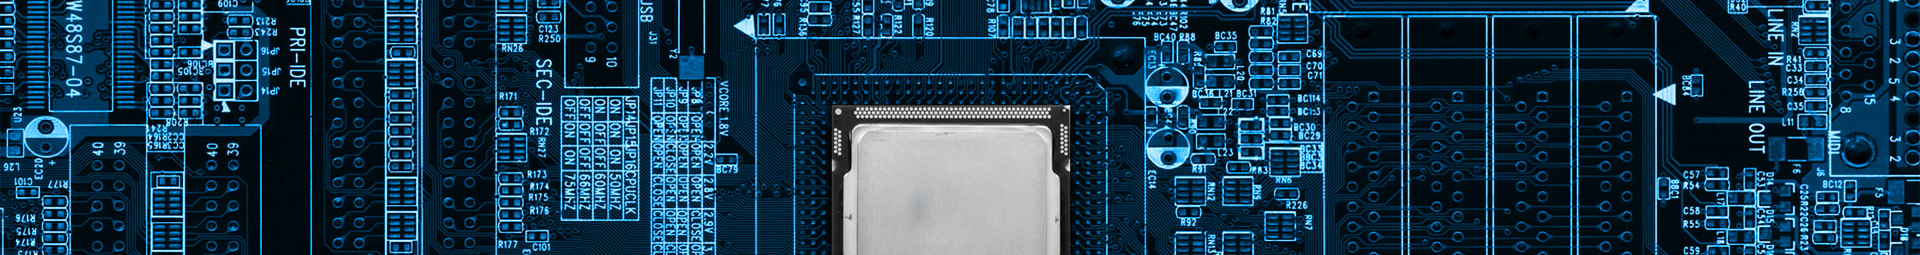
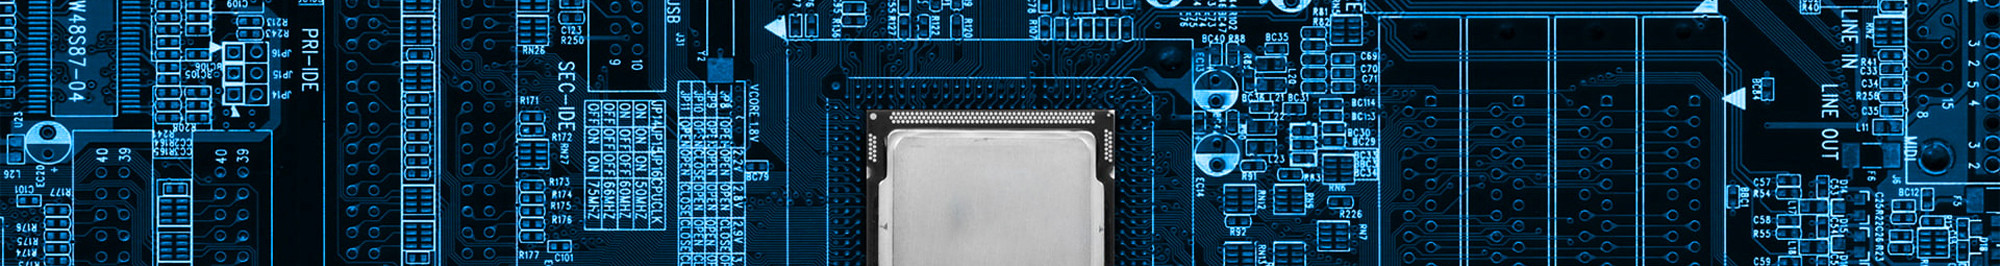
Add files via upload

diff --git a/services.html b/services.html
@@ -95,9 +95,33 @@
         </div>
         <!--two-->
         <div class="panel panel-default">
+          <div class="panel-heading" role="tab" id="headingTwo">
+            <h4 class="panel-title"><a class="collapsed" data-toggle="collapse" data-parent="#accordion" href="#collapseTwo" aria-expanded="false" aria-controls="collapseTwo">
+                
+                In Home Services <i class="accordion_icon fa fa-plus"></i></a>
+            </h4>
+          </div>
+          <div id="collapseTwo" class="panel-collapse collapse" role="tabpanel" aria-labelledby="headingTwo">
+            <div class="panel-body">
+              <hr style="border:1px solid #a80000; width:90%;">
+              <h3>IN HOME SERVICES</h3>
+              <hr style="border:1px solid #a80000; width:90%;">
+              <p>The Computer Cafe offers a wide variety of services to help all levels of computer users. On-site service is one of them. Different than in-shop repair, the on-site technician can help install your wireless networks, share printers, scanners & files, hardware installatons, troublshoot problems with your network and so much more.</p>
+
+              <p>There is no travel charge for in-home visits 15 miles or less from Wexford. The travel charge for visits more than 15 miles from Wexford depends on the distance. Call the shop for an estimate.</p>
+
+              <p>In some cases, upon assessing the situation at your home the technician will advise that the computer be brought into the shop. This recommendation is generally based on the efficiency and cost of repairing the computer on-site, the availability of parts, or the need for special equipment located at the shop. As a general rule, we recommend that virus removal be performed at the shop.</p>
+
+              <h4>SERVICE AREA:</h4>
+              <p>The Computer Cafe services charges no travel fee for services calls within 15 miles of Pittsburgh.</p>
+            </div>
+          </div>
+        </div>
+        <!--three-->
+        <div class="panel panel-default">
           <div class="panel-heading" role="tab" id="headingThree">
             <h4 class="panel-title"><a class="collapsed" data-toggle="collapse" data-parent="#accordion" href="#collapseThree" aria-expanded="false" aria-controls="collapseThree">
-                On Site Buisness Services <i class="accordion_icon fa fa-plus"></i>
+                On Site Business Services <i class="accordion_icon fa fa-plus"></i>
                 </a></h4>
           </div>
           <div id="collapseThree" class="panel-collapse collapse" role="tabpanel" aria-labelledby="headingThree">
@@ -113,7 +137,7 @@
             </div>
           </div>
         </div>
-        <!--three-->
+        <!--four-->
         <div class="panel panel-default">
           <div class="panel-heading" role="tab" id="headingFour">
             <h4 class="panel-title"><a class="collapsed" data-toggle="collapse" data-parent="#accordion" href="#collapseFour" aria-expanded="false" aria-controls="collapseFour">
@@ -145,7 +169,7 @@
             </div>
           </div>
         </div>
-        <!--four-->
+        <!--five-->
         <div class="panel panel-default">
           <div class="panel-heading" role="tab" id="headingFive">
             <h4 class="panel-title"><a class="collapsed" data-toggle="collapse" data-parent="#accordion" href="#collapseFive" aria-expanded="false" aria-controls="collapseFive">
@@ -181,7 +205,7 @@
             </div>
           </div>
         </div>
-        <!--five-->
+        <!--six-->
         <div class="panel panel-default">
           <div class="panel-heading" role="tab" id="headingSix">
             <h4 class="panel-title"><a class="collapsed" data-toggle="collapse" data-parent="#accordion" href="#collapseSix" aria-expanded="false" aria-controls="collapseSix">
@@ -252,7 +276,7 @@
             <p><i class="fa fa-envelope fa-lg" aria-hidden="true"></i><a href="#" style="color:whitesmoke;">email@.com</a></p>
           </div>
         </div>
-        <div class="col-sm-4">
+        <div class="col-sm-4 border">
           <h4>HOURS OF OPERATION</h4>
           <p>Mon - Wed | Fri: 8:00am - 5:00pm</p>
           <p>Thu: 8:00am - 6:00pm</p>
@@ -261,14 +285,13 @@
         <div class="col-sm-4">
           <h4>SOCIAL MEDIA</h4>
           <div class="social">
-            <i class="fa fa-facebook-square fa-2x" aria-hidden="true"></i>
-            <i class="fa fa-twitter-square fa-2x" aria-hidden="true"></i>
-            <i class="fa fa-google-plus-square fa-2x" aria-hidden="true"></i>
-            <i class="fa fa-linkedin-square fa-2x" aria-hidden="true"></i>
+            <a href="https://www.facebook.com/CMIT-Solutions-Of-Wexford-104547994376139/" class="fa fa-facebook"></a>
+            <a href="https://www.linkedin.com/company/cmit-solutions-of-wexford/" class="fa fa-linkedin"></a>
+            <a href="#" class="fa fa-twitter"></a>
           </div>
         </div>
       </div>
-      <div class="row">
+      <div class="row" style="padding-top:5px;">
         <h5 class="text-center">Copyright&copy;2019 The Computer Cafe | All Rights Reserved</h5>
       </div>
     </div>

diff --git a/index.html b/index.html
@@ -49,7 +49,7 @@
         <h2>700 River Ave. suite: 218</h2>
         <h2> Pittsburgh, PA 15212</h2>
         <h3> (724) 776-5860</h3>
-        <a href="services.html" class="btn btn-primary btn-lg">SERVICES</a>
+        <a href="services.html" class="btn btn-primary btn-lg">SERVICES<span class="glyphicon glyphicon-chevron-right"></span></a>
       </div>
     </div>
     <div class="container-fluid">
@@ -58,7 +58,7 @@
     </div>
     <div class="container">
       <div class="row">
-        <div class="col-md-4"><img src="images/fixed_computer.png" title="compter repair" alt="computer repair icon" class="img-responsive center-block" style=" max-width:100%; height:auto; padding-bottom:20px;"></div>
+        <div class="col-md-4"><img src="images/fixed_computer.png" title="compter repair" alt="computer repair icon" class="img-responsive center-block" style="max-width:100%; height:auto; padding-bottom:20px;"></div>
         <div class="col-md-8">
           <p>Since 1992, The Computer Caf&eacute; has offered quality residential computer sevices for residents in Pittsburgh's North Hills community. We are a locally owned buisness that offers an exceptional 2-4 buisness day turn around time for most repairs and reasonable prices compaired to other computer repair shops.</p>
           <p>Our experienced and knowledgeable staff offers you personalized and thorough service that you won't find elsewhere. We offer carry-in service at our shop in Pittsburgh, PA. We also offer complete on-site residential and buisness IT services.</p>
@@ -79,7 +79,8 @@
             <li>Operating System Reinstall</li>
             <li>Hard Drive Replacement</li>
             <li>Home Net Work Set-Up</li>
-            <li>In Shop or In Buisness Service</li>
+            <li>In Shop or In home Services</li>
+            <li>Business Services</li>
             <li>and much more...</li>
           </ul>
         </div>
@@ -90,15 +91,23 @@
       <hr style="border: 5px double #a80000; width:75%;">
     </div>
     <div>
-      <img src="images/homestrip01.jpg" class="img-responsive center-block" style="width:100%">
-    </div>
-    <div class="container-fluid">
-      <hr style="border: 5px double #a80000; width:75%;">
-      <h2>~insert content here~</h2>
-      <hr style="border: 5px double #a80000; width:75%;">
-    </div>
-    <div>
-      <img src="images/strip.jpg" class="img-responsive center-block" style="width:100%">
+        <div id="myCarousel" class="carousel fade" data-ride="carousel">
+            <!-- Indicators -->
+
+
+            <!-- Wrapper for slides -->
+            <div class="carousel-inner">
+                <div class="item active">
+                    <img src="images/stripslide01.jpg" class="center-block img-responsive" alt="eyething" style="width:100%;">
+                </div>
+
+                <div class="item">
+                    <img src="images/stripslide02.jpg" class="center-block img-responsive" alt="sonosite" style="width:100%;">
+                </div>
+                
+
+            </div>
+        </div>
     </div>
   </main>
   <footer class="container-fluid">
@@ -111,7 +120,7 @@
             <p><i class="fa fa-envelope fa-lg" aria-hidden="true"></i><a href="#" style="color:whitesmoke;">email@.com</a></p>
           </div>
         </div>
-        <div class="col-sm-4">
+        <div class="col-sm-4 border">
           <h4>HOURS OF OPERATION:</h4>
           <p>Mon - Wed | Fri: 8:00am - 5:00pm</p>
           <p>Thu: 8:00am - 6:00pm</p>
@@ -126,7 +135,7 @@
           </div>
         </div>
       </div>
-      <div class="row">
+      <div class="row" style="padding-top:5px;">
         <h5 class="text-center">Copyright&copy;2019 The Computer Cafe | All Rights Reserved</h5>
       </div>
     </div>

diff --git a/custom.css b/custom.css
@@ -77,8 +77,8 @@ main p {
 .navbar .navbar-nav > .open > a,
 .navbar .navbar-nav > .open > a:hover,
 .navbar .navbar-nav > .open > a:focus {
-  color: cadetblue;
-  background-color: #D5D5D5;
+  color:black;
+  background-color:black;
 }
 
 /*****home pg*****/
@@ -86,13 +86,14 @@ main p {
 .jumbotron {
   padding: 50px;
   color: white;
-  background-image: url("images/keyboard.jpg");
+  background-image: url("images/keyboard02.jpg");
   background-position: center;
   background-size: cover;
   background-repeat: no-repeat;
   font-family: 'Poppins', sans-serif;
   text-align: center;
-  text-shadow: 1px 1px 1px rgba(0, 0, 0, 0.004);
+ 
+
   text-rendering: optimizeLegibility !important;
 }
 
@@ -166,6 +167,53 @@ h2 {
   padding-bottom: 10px;
   text-indent: 2em;
 }
+.carousel .item {
+    left: 0!important;
+    -webkit-transition: opacity .2s;
+    /*adjust timing here */
+    -moz-transition: opacity .2s;
+    -o-transition: opacity .2s;
+    transition: opacity .2s;
+}
+
+.next.left,
+.prev.right {
+    opacity: 1;
+    z-index: 1;
+}
+
+.active.left,
+.active.right {
+    opacity: 0;
+    z-index: 2;
+}
+
+.carousel.fade {
+    opacity: 1;
+}
+
+.carousel.fade .item {
+    transition: opacity ease-out .9s;
+    left: 0;
+    opacity: 0;
+    /* hide all slides */
+    top: 0;
+    position: absolute;
+    width: 100%;
+    display: block;
+}
+
+.carousel.fade .item:first-child {
+    top: auto;
+    opacity: 1;
+    /* show first slide */
+    position: relative;
+}
+
+.carousel.fade .item.active {
+    opacity: 1;
+}
+
 
 /****services pg*****/
 
@@ -274,6 +322,10 @@ footer {
 
 
 }
+.border{
+  border: 1px solid white;
+  
+}
 
 footer .fa {
   padding: 8px;
@@ -307,6 +359,9 @@ footer .fa:hover {
 footer p {
   font-size: 1.15em;
 }
+footer h4{
+   text-decoration: underline;
+}
 
 
 
@@ -319,11 +374,11 @@ footer p {
 
 @media only screen and (max-width: 768px) {
   .jumbotron h1 {
-    font-size: 2.0em;
+    font-size: 2.3em;
     text-align:center;
   }
   .jumbotron h2 {
-    font-size: 1.6em;
+    font-size: 1.8em;
   }
   .about{
     width:100%;
@@ -334,6 +389,9 @@ footer p {
   .map{
     max-width:100%;
     height:40%;
+  }
+  .icon-bar{
+    color:#141414;
   }
 
 }

diff --git a/contact.html b/contact.html
@@ -46,7 +46,7 @@
     <div class="container">
       <div class="row inner">
         <div class="col-md-6">
-          <div style="width: 100%"><iframe width="100%" height="750" src="https://maps.google.com/maps?width=100%&amp;height=325&amp;hl=en&amp;q=700%20River%20ave%20suite218+(The%20Computer%20Cafe')&amp;ie=UTF8&amp;t=&amp;z=14&amp;iwloc=B&amp;output=embed" frameborder="0" scrolling="no" marginheight="0" marginwidth="0"><a href="https://www.maps.ie/coordinates.html">latitude longitude finder</a></iframe></div>
+          <div style="width: 100%" class="map"><iframe width="100%" height="750" src="https://maps.google.com/maps?width=100%&amp;height=325&amp;hl=en&amp;q=700%20River%20ave%20suite218+(The%20Computer%20Cafe')&amp;ie=UTF8&amp;t=&amp;z=14&amp;iwloc=B&amp;output=embed" frameborder="0" scrolling="no" marginheight="0" marginwidth="0"><a href="https://www.maps.ie/coordinates.html">latitude longitude finder</a></iframe></div>
         </div>
         <div class="col-md-6">
           <div class=address>
@@ -93,7 +93,7 @@
             <p><i class="fa fa-envelope fa-lg" aria-hidden="true"></i><a href="#" style="color:whitesmoke;">email@.com</a></p>
           </div>
         </div>
-        <div class="col-sm-4">
+        <div class="col-sm-4 border">
           <h4>HOURS OF OPERATION:</h4>
           <p>Mon - Wed | Fri: 8:00am - 5:00pm</p>
           <p>Thu: 8:00am - 6:00pm</p>
@@ -110,7 +110,7 @@
           </div>
         </div>
       </div>
-      <div class="row">
+      <div class="row" style="padding-top:5px;">
         <h5 class="text-center">Copyright&copy;2019 The Computer Cafe | All Rights Reserved</h5>
       </div>
     </div>

diff --git a/about.html b/about.html
@@ -68,7 +68,7 @@
             <p><i class="fa fa-envelope fa-lg" aria-hidden="true"></i><a href="#" style="color:whitesmoke;"> email@.com</a></p>
           </div>
         </div>
-        <div class="col-sm-4">
+        <div class="col-sm-4 border">
           <h4>HOURS OF OPERATION:</h4>
           <p>Mon - Wed | Fri: 8:00am - 5:00pm</p>
           <p>Thu: 8:00am - 6:00pm</p>
@@ -83,7 +83,7 @@
           </div>
         </div>
       </div>
-      <div class="row">
+      <div class="row" style="padding-top:5px;">
         <h5 class="text-center">Copyright&copy;2019 The Computer Cafe | All Rights Reserved</h5>
       </div>
     </div>
